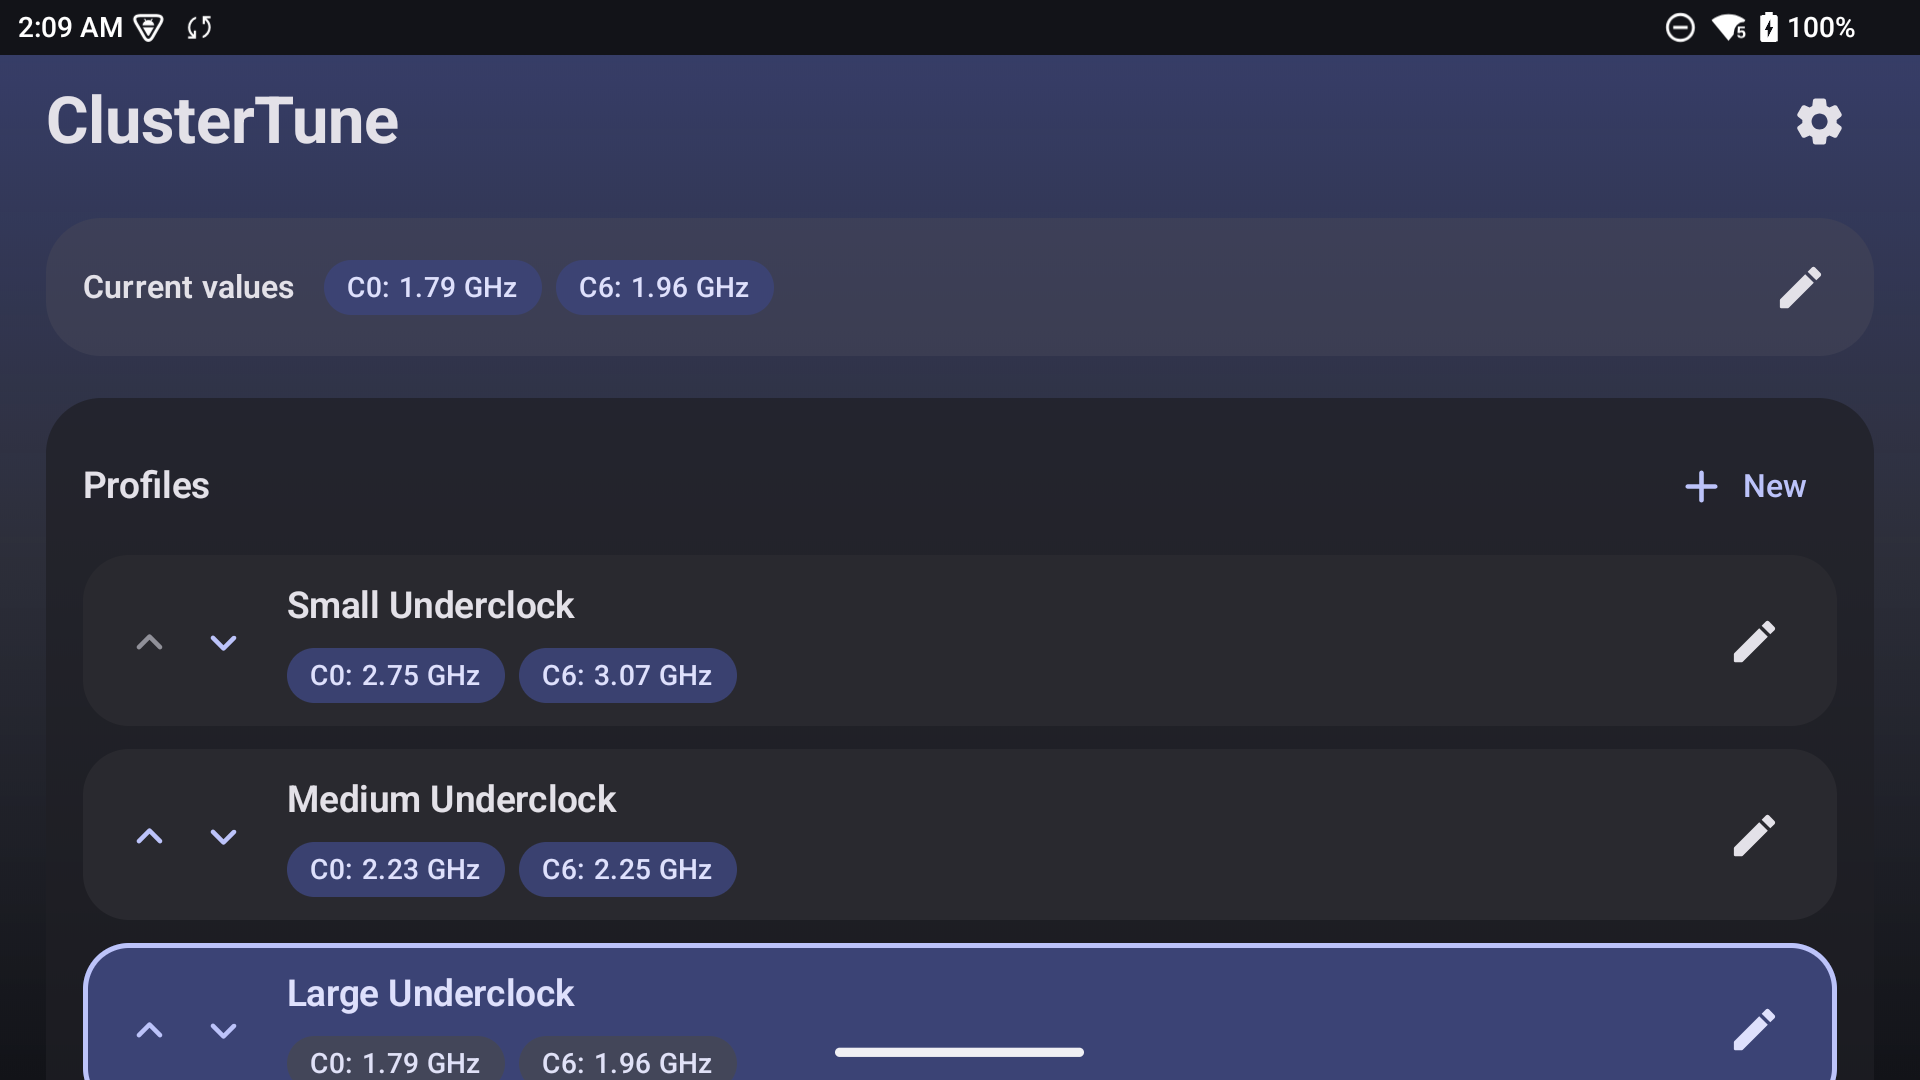
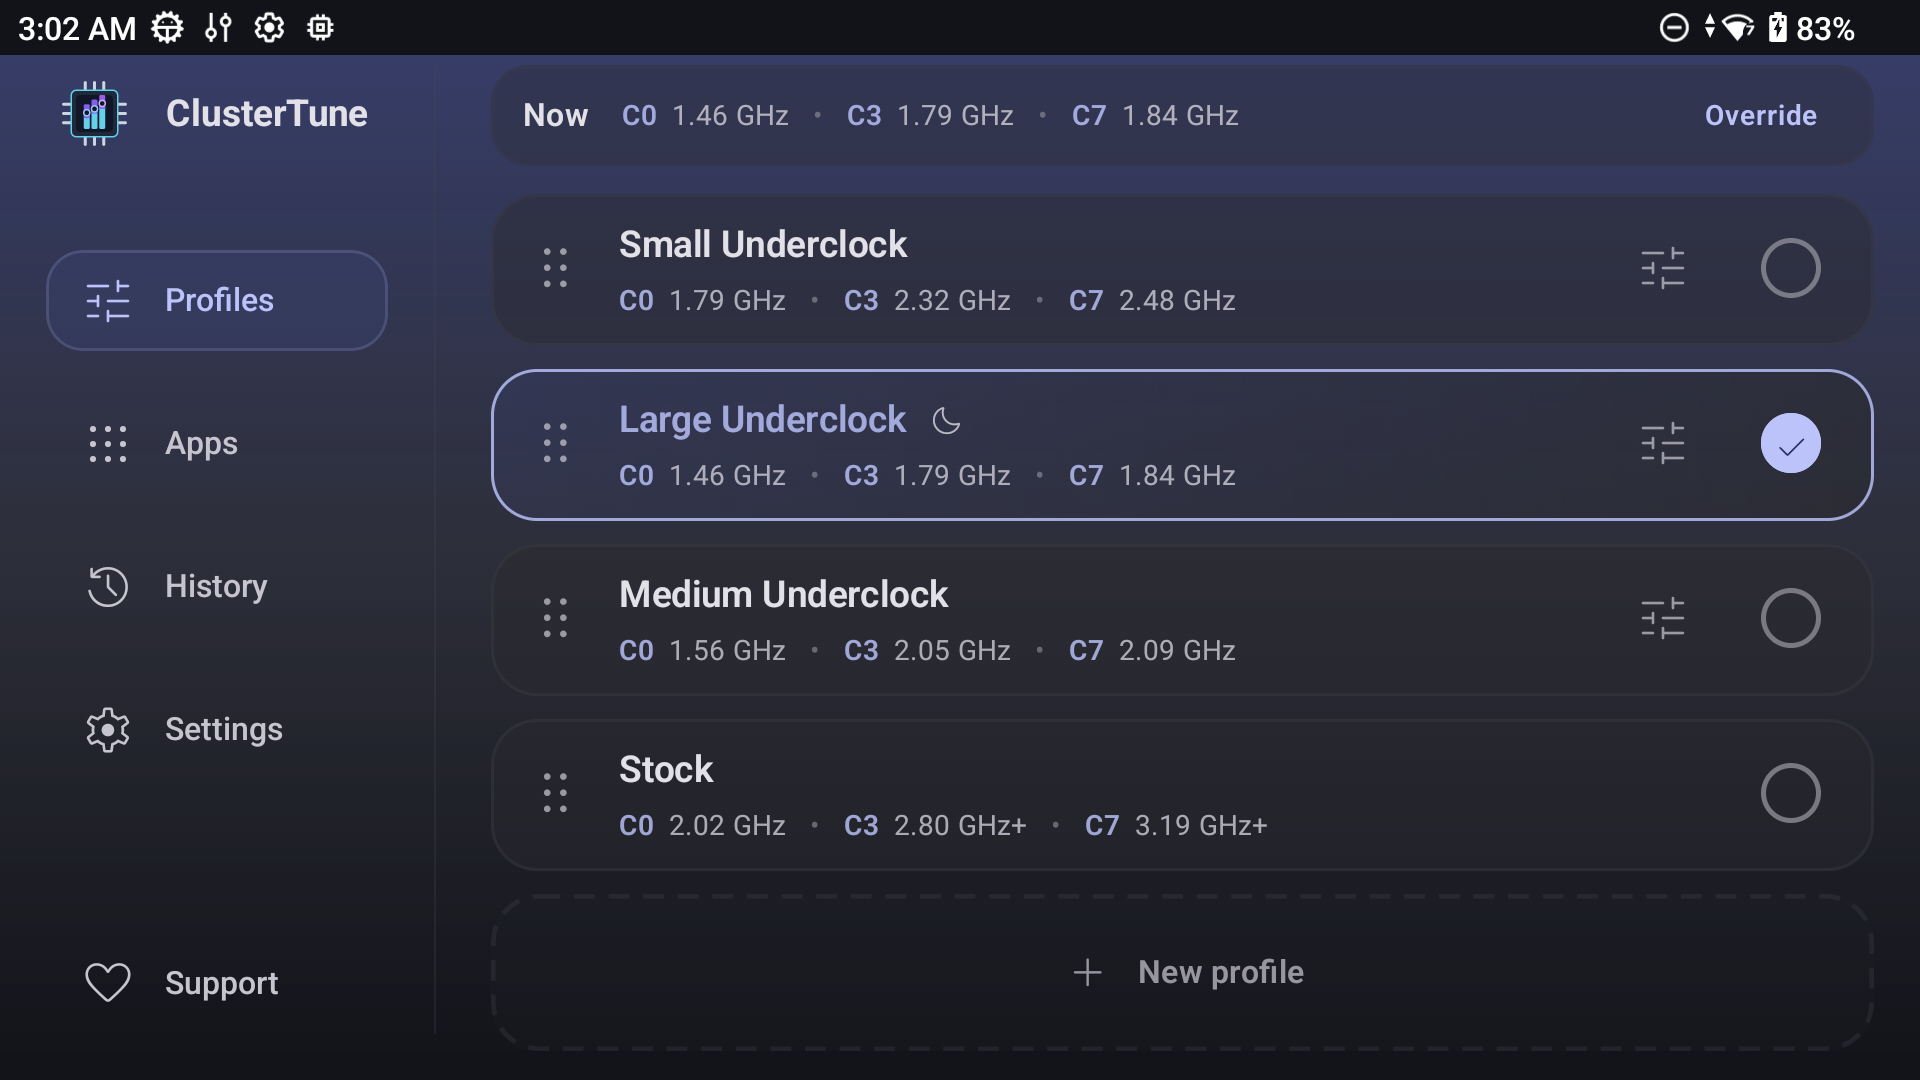
chore(release): prepare 1.0.0
Set the production version, publish the concise v1 README with its release link, and refresh the current interface screenshots.

diff --git a/README.md b/README.md
@@ -3,140 +3,99 @@
   ClusterTune
 </h1>
 
-![GitHub Downloads (all assets, all releases)](https://img.shields.io/github/downloads/AurelioB/cluster-tune/total)
-![GitHub Release](https://img.shields.io/github/v/release/AurelioB/cluster-tune)
+![GitHub Downloads (all assets, all releases)](https://img.shields.io/github/downloads/AurelioB/ClusterTune/total)
+![GitHub Release](https://img.shields.io/github/v/release/AurelioB/ClusterTune)
 
-<a href='https://ko-fi.com/J3J518XVKR' target='_blank'><img height='36' style='border:0px;height:36px;' src='https://storage.ko-fi.com/cdn/kofi6.png?v=6' border='0' alt='Buy Me a Coffee at ko-fi.com' /></a>
+<a href="https://ko-fi.com/J3J518XVKR" target="_blank"><img height="36" style="border:0px;height:36px;" src="https://storage.ko-fi.com/cdn/kofi6.png?v=6" border="0" alt="Buy Me a Coffee at ko-fi.com" /></a>
 
-ClusterTune is an Android utility for tuning CPU frequency limits on supported handheld devices. It lets you adjust CPU clusters, save performance profiles, and access quick controls from an Android Quick Settings tile.
-
-The app has been tested with the AYN Odin 3, but should be compatible with other AYN and Retroid devices.
-
-ClusterTune uses a device's built-in PServer service where available, so supported handhelds do not require Magisk or user-granted root access. A standard `su` root shell is also supported as a fallback on rooted devices.
+ClusterTune sets maximum CPU frequencies for each cluster on Android handhelds.
 
 > [!WARNING]
-> ClusterTune changes CPU frequency limits. This may affect device stability, thermals, battery life, and performance, and I cannot guarantee that it is safe for your hardware or beneficial for your use case. Use it only if you understand what CPU frequency limits do and are comfortable accepting the risk.
+> Changing CPU limits can affect stability, performance, temperature, and battery life. Start with tested values and use **Stock** to restore normal limits.
 
-## Why use this?
+## Why underclock?
 
-ClusterTune underclocks by setting lower maximum CPU frequencies. It does not undervolt the CPU, and it is not an adaptive governor; it simply caps how fast each CPU cluster is allowed to run.
+Lower CPU limits can reduce power use, heat, fan noise, and battery drain. Games limited by the GPU may also gain thermal or power headroom. This only caps clock speed and does not undervolt the CPU or replace its governor.
 
-Lower CPU frequency caps can reduce power draw, which may help lower temperatures, quiet the fan, and extend battery life. In some games, reducing CPU power and heat may also leave more thermal or power headroom for the GPU, especially when the game is GPU-bound.
+## Features
+
+* Support for rooted Android 12+ devices through `su`
+* Independent maximum frequency controls for each CPU cluster
+* Profiles that can be created, reordered, imported, and exported
+* Bundled presets and a Stock profile for supported processors
+* Automatic app profiles using saved profiles or custom frequency values, with the previous profile restored when you leave
+* Quick Settings access to pick, tune, or cycle profiles
+* A left edge gesture that opens profile controls over the current app
+* Optional profile automation after boot and while asleep
+* A history of automatic profile switches
+
+## Compatibility
+
+Version 1.0 adds support for rooted devices, expanding compatibility beyond AYN and Retroid hardware.
+
+| Method | Devices |
+| --- | --- |
+| **PServer** | AYN and Retroid devices with the built in PServer service, except Odin 2 Mini |
+| **Root** | Any Android 12+ device with a working `su` shell |
+
+Detection tries PServer first, then Root. The Odin 2 Mini must use Root. If neither method is available, tuning cannot be applied.
+
+## Install
+
+Download [v1.0.0](https://github.com/AurelioB/ClusterTune/releases/tag/v1.0.0) and install `ClusterTune-v1.0.0.apk`.
+
+Android may ask the browser or file manager for permission to install the APK. **Install downloaded updates** is separate and optional. It is only needed for updates installed from inside the app.
+
+## Setup
+
+Execution method detection runs on first launch. Approve the `su` request if Root is selected. Any missing access is listed with a shortcut to the correct Android settings page.
+
+| Access | Purpose |
+| --- | --- |
+| **Display over other apps** | Opens profile controls over the current app. |
+| **Usage access** | Detects the foreground app for automatic profiles. |
+| **Notifications** | Keeps app profile and sleep automation active. |
+
+Choose a bundled profile or create one. **Stock** restores the device's normal maximum frequencies.
 
 ## Screenshots
 
 | Main app | Profile editor |
 | --- | --- |
-| <img src="docs/screenshots/main-app.png" alt="ClusterTune main app view" width="420"> | <img src="docs/screenshots/profile-editor.png" alt="ClusterTune profile editor dialog" width="420"> |
+| <img src="docs/screenshots/main-app.png" alt="Main profiles view" width="420"> | <img src="docs/screenshots/profile-editor.png" alt="Profile editor" width="420"> |
 
-| Quick Settings tile dialog | Settings |
+| Quick tuner overlay | Settings |
 | --- | --- |
-| <img src="docs/screenshots/quick-settings-dialog.png" alt="ClusterTune Quick Settings tile dialog" width="420"> | <img src="docs/screenshots/settings.png" alt="ClusterTune settings view" width="420"> |
+| <img src="docs/screenshots/quick-tuner-overlay.png" alt="Quick tuner and profile picker" width="420"> | <img src="docs/screenshots/settings.png" alt="Settings view" width="420"> |
 
-## Features
+## Troubleshooting and support
 
-- Tune CPU clusters with per-cluster frequency sliders.
-- View the currently applied frequency cap for each cluster.
-- Save, edit, delete, reorder, import, and export profiles.
-- Use bundled profiles for supported devices.
-- Reapply the last profile on boot.
-- Quick Settings tile for fast access.
-- Customizable quick tile behavior
+* No execution method found: confirm that PServer is available or that the root manager provides `su`, then run detection again from Settings.
+* Profile controls missing: check Display over other apps.
+* Assigned app not switching profiles: confirm its assignment, Usage access, and Notifications.
 
-## Requirements
+For help, open a [GitHub issue](https://github.com/AurelioB/ClusterTune/issues) with your device model, Android version, execution method, and the relevant log details. Please do not include private data.
 
-- Android 12+ (`minSdk 31`).
-- A compatible handheld with a supported PServer service, or a rooted Android device with a working `su` shell.
+## Build and test
 
-## Build
-
-```bash
-./gradlew assembleDebug
-```
-
-Run unit tests:
+Building requires JDK 17 and Android SDK 34:
 
 ```bash
 ./gradlew testDebugUnitTest
+./gradlew lintDebug
+./gradlew assembleDebug
 ```
 
-Run both:
+The debug APK is written to `app/build/outputs/apk/debug/`.
 
-```bash
-./gradlew testDebugUnitTest assembleDebug
-```
+## License and attribution
 
-The debug APK is produced under:
+Distributed under the GNU General Public License v2.0.
 
-```text
-app/build/outputs/apk/debug/
-```
+The RootExec/PServer command execution code is based on [O2P Tweaks](https://github.com/FeralAI/o2ptweaks.app) by FeralAI, also licensed under GPLv2.
 
-## Project Structure
+The project was inspired by the [Odin 3 CPU Underclock](https://github.com/TheOldTaylor/Odin3-CPU-Underclock) scripts and the original idea shared by Reddit users [u/twoohfive205](https://www.reddit.com/user/twoohfive205/) and [u/JoaozaoS](https://www.reddit.com/user/JoaozaoS/).
 
-```text
-app/src/main/java/com/aure/clustertune/
-  data/       detection, storage, bundled profiles, repository
-  model/      app state and profile models
-  root/       privileged execution and sysfs access
-  tile/       Quick Settings tile and add-tile prompt
-  ui/         Compose screens, dialogs, settings, theme
-  boot/       boot completed receiver
+## AI assistance disclosure
 
-app/src/main/assets/bundled_profiles/
-  <SoC model>.json
-```
-
-## Bundled Profiles
-
-Bundled profiles are stored as SoC-specific JSON files:
-
-```text
-app/src/main/assets/bundled_profiles/CQ8725S.json
-```
-
-The filename should match the detected SoC model, such as `ro.soc.model`.
-
-Example:
-
-```json
-{
-  "schemaVersion": 1,
-  "socModel": "CQ8725S",
-  "profiles": [
-    {
-      "id": "bundled_cq8725s_small",
-      "name": "Small Underclock",
-      "maxFrequencies": {
-        "0": 2745600,
-        "6": 3072000
-      }
-    }
-  ]
-}
-```
-
-Exported profiles follow the same schema.
-
-## Notes For Contributors
-
-- UI refers to cpufreq policies as CPU clusters, but internal code keeps `policy` naming because it matches Linux/sysfs terminology.
-- Automatic execution detection prefers PServer access, then a standard root shell.
-
-## License and Attribution
-
-ClusterTune is distributed under the terms of the GNU General Public License v2.0.
-
-The RootExec / PServer command execution code in this project is based on code from
-[O2P Tweaks](https://github.com/FeralAI/o2ptweaks.app) by FeralAI, which is also
-licensed under the GNU General Public License v2.0.
-
-ClusterTune was inspired by the Odin 3 underclocking scripts published in
-[TheOldTaylor/Odin3-CPU-Underclock](https://github.com/TheOldTaylor/Odin3-CPU-Underclock).
-The original underclocking idea was shared by Reddit users u/twoohfive205 and
-u/JoaozaoS in
-[this r/OdinHandheld comment](https://www.reddit.com/r/OdinHandheld/comments/1snp9xd/comment/ogphgmb/).
-
-## AI Assistance Disclosure
-
-I used AI assistance while building this project. Software development is my day job, and I reviewed the code throughout the process. I understand how the app works and what it does.
+AI assistance was used while building this project. I reviewed the code throughout development and understand how the app works and what it does.
